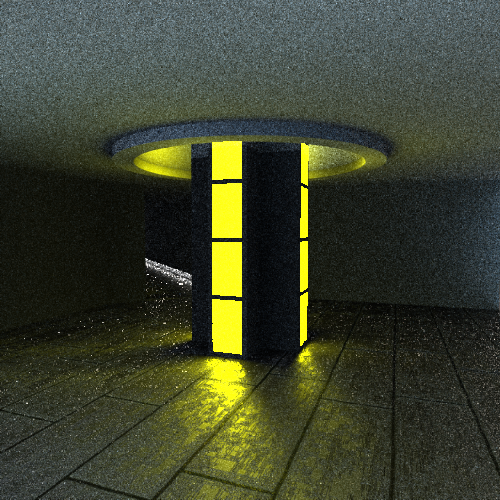
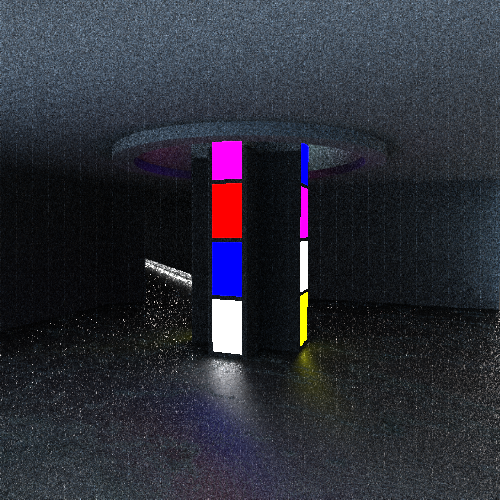
scene progress

diff --git a/README.md b/README.md
@@ -15,6 +15,7 @@ Physically Based Rendering - in Julia
     - Wall material.
     - Better ambient lighting.
 - Stratified sampler edges...
+- Add metal material
 - Add fourier material.
 - I can assume all objects are static and simplify some camera shutter and sampling details.
 - Make CLI.
